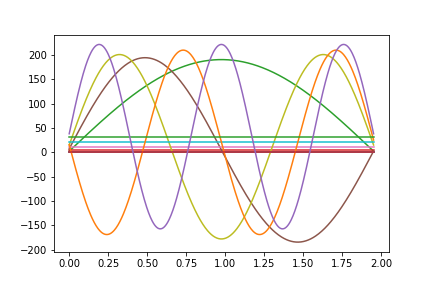
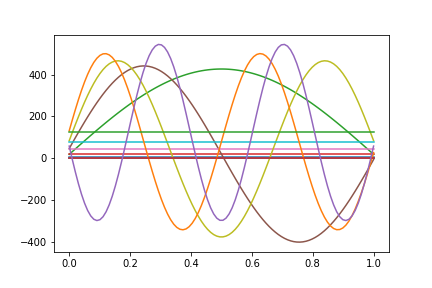
New well potential

diff --git a/1d_tusl.py b/1d_tusl.py
@@ -107,9 +107,9 @@ def plot_wave_funcs(energies, wave_funcs, iter_lim, L, V_vals, n_w):
 	plt.show()
 
 
-E_b, w_b, iter_lim_b, L_b, V_vals_b = analyze(4)
+E_b, w_b, iter_lim_b, L_b, V_vals_b = analyze(0)
 plot_wave_funcs(E_b, w_b, iter_lim_b, L_b, V_vals_b)
-energies, wave_funcs, iter_lim, L, V_vals = analyze(10)
+energies, wave_funcs, iter_lim, L, V_vals = analyze(1)
 plot_wave_funcs(energies, wave_funcs, iter_lim, L, V_vals)
 
 band_widths(1, 50)
